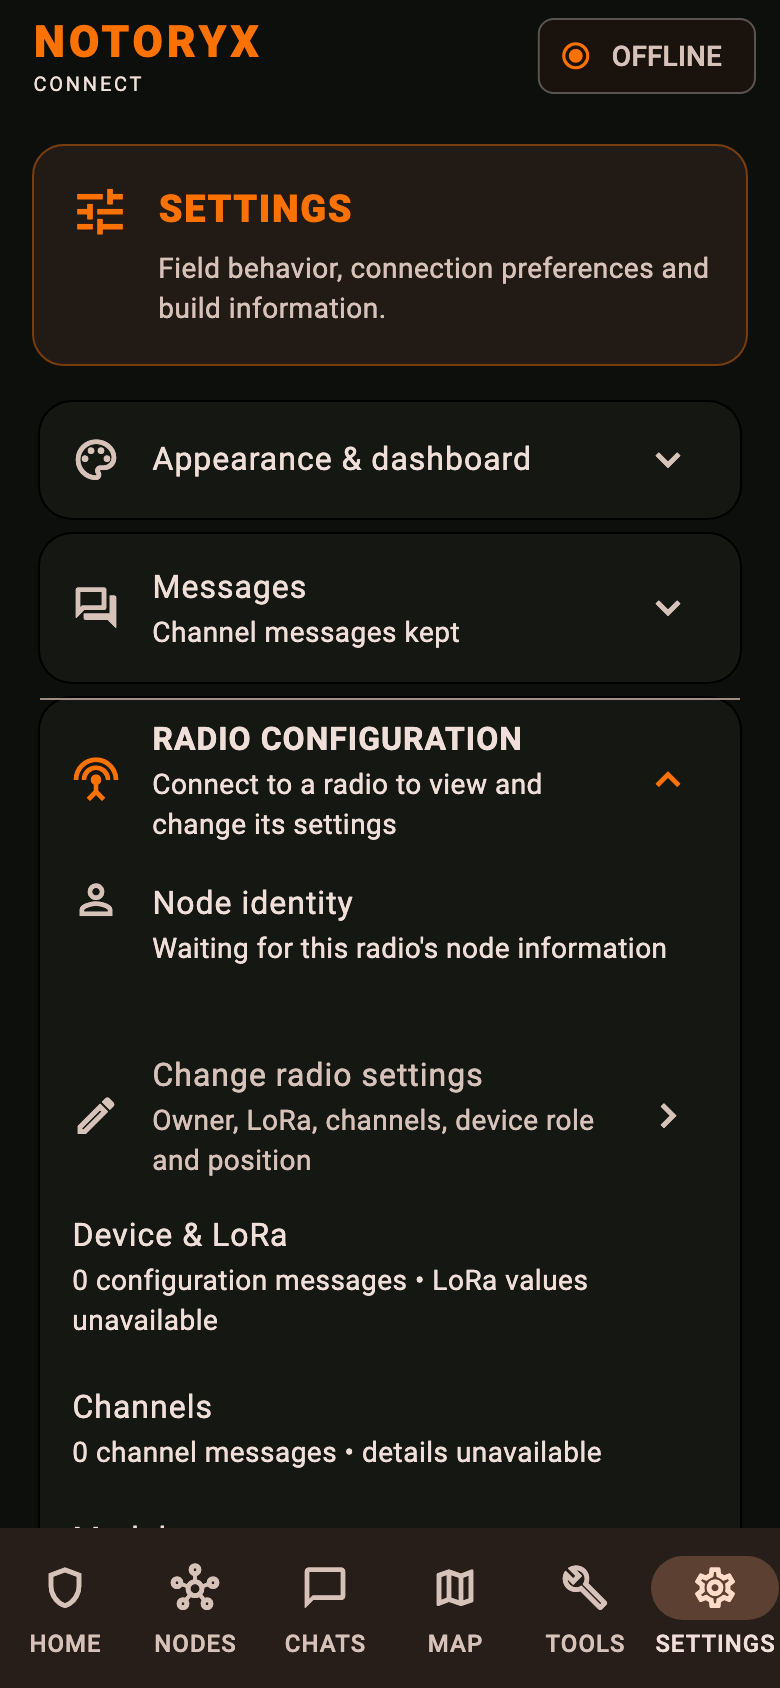
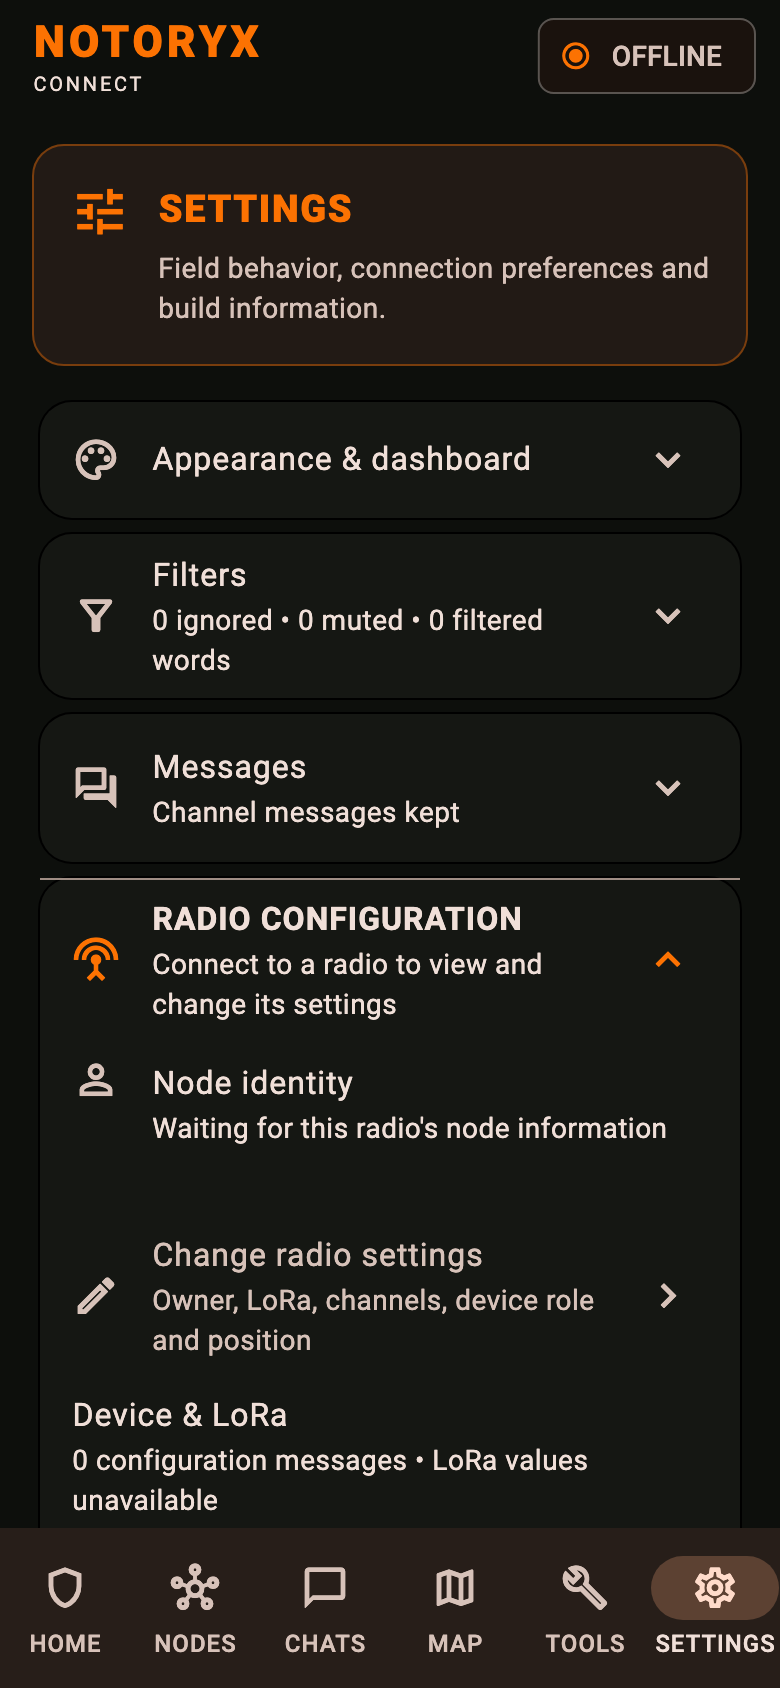
README: beta.3 features and new screenshots
Adds the HOME, trip, beacons and discovery screenshots, documents trip
safety, team map, trails, GPX, units, filters, reactions, beacons and
discovery, and fixes the APK file name. The preview test now renders the
discovery screen too.

diff --git a/test/preview/screens_preview_test.dart b/test/preview/screens_preview_test.dart
@@ -8,6 +8,7 @@ import 'dart:ui' as ui;
 
 import 'package:bastion/beacon_page.dart';
 import 'package:bastion/field_tools_page.dart';
+import 'package:bastion/local_mesh_discovery_page.dart';
 import 'package:bastion/main.dart';
 import 'package:bastion/phone_backup_page.dart';
 import 'package:bastion/privacy_page.dart';
@@ -72,6 +73,7 @@ void main() {
     'phone_backup': (radio) => PhoneBackupPage(radio: radio),
     'beacons': (radio) => BeaconPage(radio: radio),
     'trip': (radio) => TripPage(radio: radio),
+    'discovery': (radio) => LocalMeshDiscoveryPage(radio: radio),
   };
   for (final page in pages.entries) {
     testWidgets('page ${page.key}', (tester) async {

diff --git a/README.md b/README.md
@@ -13,16 +13,22 @@ NOTORYX Connect pairs your phone with a radio over Bluetooth so you can message,
 > **Independent project:** NOTORYX Connect (formerly Bastion) is not affiliated with, sponsored by, endorsed by, or an official application of Meshtastic LLC.
 
 <p align="center">
+  <img src="docs/screenshots/home.png" width="200" alt="Home tab: field console, trip plan, check-in and hold for SOS">
   <img src="docs/screenshots/nodes.png" width="200" alt="Nodes tab: scan for radios and connect">
   <img src="docs/screenshots/chats.png" width="200" alt="Chats tab: channel and direct messages with quick replies">
   <img src="docs/screenshots/tools.png" width="200" alt="Tools tab: field tools and deployment checklist">
-  <img src="docs/screenshots/settings_light.png" width="200" alt="Settings tab in the light theme">
+</p>
+<p align="center">
+  <img src="docs/screenshots/trip.png" width="200" alt="Plan your trip: contacts, overdue alert and check-in reminder">
+  <img src="docs/screenshots/beacons.png" width="200" alt="Mesh beacons heard, and sending one by hand">
+  <img src="docs/screenshots/discovery.png" width="200" alt="Local mesh discovery planner">
+  <img src="docs/screenshots/settings.png" width="200" alt="Settings: appearance, units, filters and messages">
 </p>
 <p align="center">
   <img src="docs/screenshots/field_records.png" width="200" alt="Field records: incident log, templates, coverage and bot safeguards">
   <img src="docs/screenshots/privacy.png" width="200" alt="Privacy and data: what's stored and what's sent">
   <img src="docs/screenshots/radio_backup.png" width="200" alt="Encrypted radio backup">
-  <img src="docs/screenshots/phone_backup.png" width="200" alt="Phone data backup">
+  <img src="docs/screenshots/home_light.png" width="200" alt="Home tab in the light theme">
 </p>
 
 > NOTORYX Connect is a beta. It has been checked on one radio (a Seeed T1000-E) and in automated tests, not yet on a wide range of phones, radios and firmware versions. Don't rely on it as your only way to call for help. Please [report issues](../../issues).
@@ -33,7 +39,8 @@ Get the latest beta from **[NOTORYX Connect releases](https://github.com/TheLogs
 
 | Platform | File | Notes |
 |---|---|---|
-| Android (ARM64 phones) | `…-arm64.apk` | Signed with the release key |
+| Android (ARM64 phones) | `NOTORYX-Connect-<version>-<build>.apk` | Signed with the release key |
+| Google Play | `NOTORYX-Connect-<version>-<build>.aab` | For the Play Console, not for installing directly |
 
 A universal macOS build (Intel and Apple silicon) can be built with the **NOTORYX macOS Build** workflow but isn't released yet.
 
@@ -43,16 +50,25 @@ A universal macOS build (Intel and Apple silicon) can be built with the **NOTORY
 2. Open the file. If Android asks, allow installs from your browser or file manager.
 3. Open NOTORYX Connect and allow **Bluetooth**, **location** and **notifications** when asked.
 
+Newer betas install over older ones and keep your data. Don't uninstall first.
+
 **Upgrading from v0.1.3-beta.1 or earlier:** the app ID changed from `org.backcountrysignal.bastion` to `com.bastionmesh.connect`, so the next release installs as a separate app instead of updating the old one. Before switching, make a backup in the old app (**Settings → Phone data backup / restore**, and **Encrypted radio backup / restore** if you want one), install the new app, restore the backup there, then uninstall the old app. You only do this once.
 
 ## Getting started
 
-1. **Connect your radio.** On **NODES**, tap **Scan for radios**, then **Connect** next to your radio. NOTORYX Connect checks the Meshtastic service, runs the PhoneAPI handshake and syncs the node list before it marks the session ready. It reconnects on its own if the link drops.
+1. **Connect your radio.** On **HOME**, tap **Connect radio**, or on **NODES**, tap **Scan for radios**, then **Connect** next to your radio. NOTORYX Connect checks the Meshtastic service, runs the PhoneAPI handshake and syncs the node list before it marks the session ready. It reconnects on its own if the link drops.
 2. **Send a message.** On **CHATS**, pick **Broadcast** or a node, choose a channel and send. Messages typed while you're offline are queued and sent when the radio is back.
 3. **Check your radio's settings.** **SETTINGS → Radio configuration** shows the node's identity, LoRa settings, channels and modules, and every change is read back from the radio to confirm it saved.
-4. **Prepare for the field.** **TOOLS** has the deployment checklist, battery runtime estimate, incident log and message templates.
+4. **Plan your trip.** On **HOME**, add up to 6 trip contacts. **Check in** sends them your status, position and battery, and **Hold for SOS** repeats a call for help until one of them answers.
+5. **Prepare for the field.** **TOOLS** has the deployment checklist, battery runtime estimate, incident log, message templates and mesh beacons.
 
 ## Features
+
+### Trip safety (HOME)
+- **Field console** with radio status, node count and battery.
+- **Plan your trip:** up to 6 trip contacts, an overdue alert and a check-in reminder.
+- **Check in** with one tap (I'm OK, At camp, Delayed, Heading back). It goes to every trip contact as a direct message with time, position and battery, shows who it reached, and resends to the rest.
+- **Hold for SOS** (2 seconds, or a confirmation with TalkBack). It sends to your trip contacts and optionally a channel, repeats every 5 minutes up to 12 times, stops when a contact answers, and **I'm safe** sends an all-clear.
 
 ### Messaging
 - Channel and direct messages with delivery states from routing acknowledgments, and a thread for each node.
@@ -60,11 +76,21 @@ A universal macOS build (Intel and Apple silicon) can be built with the **NOTORY
 - Search across all saved messages, including queued ones.
 - Quick replies (On my way, Need assistance, What is your position?) and check-in, assistance and all-clear templates that you review before sending.
 - Chat history, queue and node list are kept separately for each radio you use.
+- Emoji reactions, a draft kept for each conversation, and a **via MQTT** label on messages that came over the internet.
+- **Ignore** or **mute** a node, and hide messages containing words you choose (whole words, any language). An SOS reply from a trip contact is never missed, even if you ignored them.
+- Optional automatic deletion of old channel messages (direct messages are kept), and reading new messages aloud.
+- App-icon shortcuts: Check in / SOS, Chats, Nodes and Map.
 - Optional **Bot Mode** with an away reply, quiet hours, reply limits and loop protection.
 
 ### Nodes and maps
 - Node list with favorites, notes, telemetry, signal history, traceroute (with SNR for each hop) and neighbors.
 - Map of node positions and waypoints. OpenStreetMap areas you've viewed stay cached offline for a year.
+- **Team view:** each trip contact's freshness, distance, direction and battery, with position age on their pins.
+- **Trails** of where your trip contacts (and you) have been over the last 24 hours.
+- **Export GPX** of waypoints and trails for other mapping apps.
+- **Units:** miles and feet, or kilometers and meters (picked from your region by default).
+- **Mesh beacons:** see the beacons your radio hears, join a channel a beacon offers after reviewing it, or send one by hand.
+- **Local mesh discovery** (read-only for now): plan a listen across LoRa presets and see the nodes your radio has already heard.
 - Opt-in phone GPS sharing, with optional rounding of your shared position (about 360 m, 1.5 km or 6 km).
 
 ### Radio management
@@ -107,7 +133,7 @@ CI generates the Android project with the Dart project name `bastion` and organi
 
 Dependency versions are locked in the committed `pubspec.lock`, and CI runs `flutter pub get --enforce-lockfile`, so every build uses the same packages. To change a dependency, edit `pubspec.yaml`, run plain `flutter pub get`, and commit the updated `pubspec.lock`.
 
-The README screenshots (the four main tabs plus field records, privacy and both backup screens) are rendered by `test/preview/screens_preview_test.dart`:
+The README screenshots (the main tabs in dark and light, plus the trip, beacons, discovery, field records, privacy and backup screens) are rendered by `test/preview/screens_preview_test.dart`:
 
 ```sh
 PREVIEW_OUT=docs/screenshots flutter test test/preview
